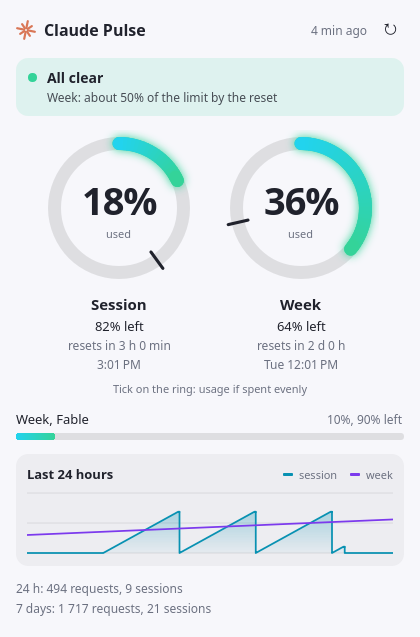
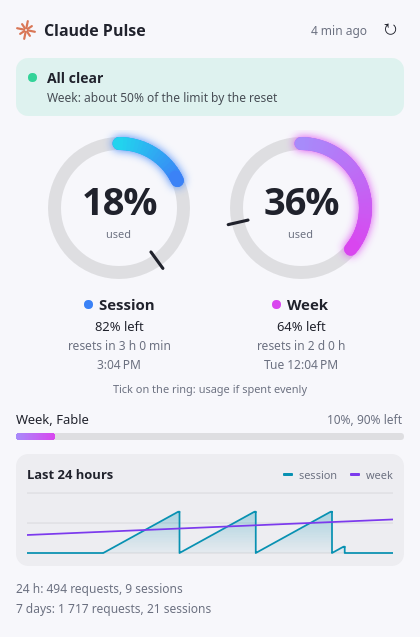
Give the session and week rings fixed colours
Blue for the session and violet for the week, so the rings can be told
apart at a glance. A ring turns red above 85%. Drops the CI workflow.

diff --git a/package/contents/ui/Gauge.qml b/package/contents/ui/Gauge.qml
@@ -8,6 +8,7 @@ ColumnLayout {
 
     property string title
     property string subtitle
+    property string kind: "session"
     property var limit: null
     property real now
     property color textColor
@@ -16,7 +17,7 @@ ColumnLayout {
     property color paceColor
 
     readonly property real pct: limit ? limit.pct : 0
-    readonly property var colors: P.level(pct)
+    readonly property var colors: P.level(pct, kind)
 
     spacing: 2
 
@@ -55,13 +56,21 @@ ColumnLayout {
         }
     }
 
-    Text {
+    Row {
         Layout.alignment: Qt.AlignHCenter
         Layout.topMargin: 6
-        text: gauge.title
-        color: gauge.textColor
-        font.pixelSize: 15
-        font.weight: Font.DemiBold
+        spacing: 6
+        Rectangle {
+            anchors.verticalCenter: parent.verticalCenter
+            width: 9; height: 9; radius: 4.5
+            color: P.level(0, gauge.kind).b
+        }
+        Text {
+            text: gauge.title
+            color: gauge.textColor
+            font.pixelSize: 15
+            font.weight: Font.DemiBold
+        }
     }
     Text {
         Layout.alignment: Qt.AlignHCenter

diff --git a/package/contents/ui/Dashboard.qml b/package/contents/ui/Dashboard.qml
@@ -185,6 +185,7 @@ Item {
             Item { Layout.fillWidth: true }
             Gauge {
                 title: P.t("Week")
+                kind: "week"
                 subtitle: P.t("7-day window")
                 limit: dash.week
                 now: dash.now
@@ -237,8 +238,8 @@ Item {
                         width: Math.max(height, parent.width * Math.min(100, modelRow.modelData.pct) / 100)
                         gradient: Gradient {
                             orientation: Gradient.Horizontal
-                            GradientStop { position: 0; color: P.level(modelRow.modelData.pct).a }
-                            GradientStop { position: 1; color: P.level(modelRow.modelData.pct).b }
+                            GradientStop { position: 0; color: P.level(modelRow.modelData.pct, "week").a }
+                            GradientStop { position: 1; color: P.level(modelRow.modelData.pct, "week").b }
                         }
                         Behavior on width { NumberAnimation { duration: 900; easing.type: Easing.OutCubic } }
                     }

diff --git a/package/contents/ui/PanelIcon.qml b/package/contents/ui/PanelIcon.qml
@@ -31,8 +31,8 @@ Item {
             anchors.fill: parent
             value: icon.sessionPct
             thickness: Math.max(2.5, icon.ringSize * 0.13)
-            colorA: P.level(icon.sessionPct).a
-            colorB: P.level(icon.sessionPct).b
+            colorA: P.level(icon.sessionPct, "session").a
+            colorB: P.level(icon.sessionPct, "session").b
             trackColor: icon.trackColor
         }
         Ring {
@@ -41,8 +41,8 @@ Item {
             height: parent.height * 0.60
             value: icon.weekPct
             thickness: Math.max(2.5, icon.ringSize * 0.13)
-            colorA: P.level(icon.weekPct).a
-            colorB: P.level(icon.weekPct).b
+            colorA: P.level(icon.weekPct, "week").a
+            colorB: P.level(icon.weekPct, "week").b
             trackColor: icon.trackColor
         }
         SequentialAnimation on opacity {

diff --git a/package/contents/ui/Palette.js b/package/contents/ui/Palette.js
@@ -42,11 +42,12 @@ function t(source) {
     return text
 }
 
-// Two-stop arc colours by how much of the limit is gone.
-function level(pct) {
+// Each window keeps its own colour so the rings can't be mixed up: blue for
+// the session, violet for the week. Only a nearly spent limit turns red.
+function level(pct, kind) {
     if (pct >= 85) return { a: "#fb923c", b: "#ef4444" }
-    if (pct >= 60) return { a: "#fcd34d", b: "#f97316" }
-    return { a: "#22d3ee", b: "#34d399" }
+    if (kind === "week") return { a: "#a78bfa", b: "#d946ef" }
+    return { a: "#22d3ee", b: "#3b82f6" }
 }
 
 function duration(seconds) {

diff --git a/package/contents/code/tray.py b/package/contents/code/tray.py
@@ -18,8 +18,8 @@ FETCH = os.path.join(HERE, "fetch.py")
 DASHBOARD = os.path.normpath(os.path.join(HERE, "..", "ui", "Dashboard.qml"))
 
 
-def level_color(pct):
-    return QColor("#ef4444" if pct >= 85 else "#f97316" if pct >= 60 else "#22d3ee")
+def level_color(pct, base):
+    return QColor("#ef4444" if pct >= 85 else base)
 
 
 def render_icon(session, week, risk):
@@ -29,12 +29,12 @@ def render_icon(session, week, risk):
     pixmap.fill(Qt.GlobalColor.transparent)
     p = QPainter(pixmap)
     p.setRenderHint(QPainter.RenderHint.Antialiasing)
-    for pct, inset in ((session, 5), (week, 20)):
+    for pct, inset, base in ((session, 5, "#3b82f6"), (week, 20, "#d946ef")):
         rect = QRectF(inset, inset, size - 2 * inset, size - 2 * inset)
         p.setPen(QPen(QColor(128, 128, 128, 90), 9))
         p.drawEllipse(rect)
         if pct:
-            pen = QPen(level_color(pct), 9)
+            pen = QPen(level_color(pct, base), 9)
             pen.setCapStyle(Qt.PenCapStyle.RoundCap)
             p.setPen(pen)
             p.drawArc(rect, 90 * 16, int(-min(100, pct) / 100 * 360 * 16))

diff --git a/README.ru.md b/README.ru.md
@@ -13,7 +13,7 @@
 
 ## Возможности
 
-- **Значок с двумя кольцами.** Внешнее кольцо — сессия на 5 часов, внутреннее — неделя. Цифры рядом с кольцами можно скрыть.
+- **Значок с двумя кольцами.** Внешнее синее кольцо — сессия на 5 часов, внутреннее фиолетовое — неделя. Выше 85% кольцо становится красным. Цифры рядом с кольцами можно скрыть.
 - **Окно по клику.** В нём проценты использованного и остатка, отсчёт до сброса, недельные лимиты по моделям и график за 24 часа.
 - **Риска темпа.** Риска на кольце показывает, сколько ушло бы при ровном расходе, так что сразу видно, идёте ли вы быстрее.
 - **Прогноз.** Показывает, кончится ли лимит до сброса и когда именно.

diff --git a/README.md b/README.md
@@ -13,7 +13,7 @@ Images use sample data. Claude Pulse is an unofficial community project, not aff
 
 ## Features
 
-- **Panel icon with two rings.** The outer ring is the 5-hour session, the inner ring is the week. Numbers next to the rings are optional.
+- **Panel icon with two rings.** The outer blue ring is the 5-hour session, the inner violet ring is the week. A ring turns red above 85%. Numbers next to the rings are optional.
 - **Dashboard on click.** It shows percent used and left, a countdown to each reset, per-model weekly limits and a 24-hour chart.
 - **Pace tick.** The tick on each ring marks where you would be if you spent the limit evenly, so you can see at a glance if you are ahead of it.
 - **Forecast.** It works out whether you will run out before the reset, and when.
